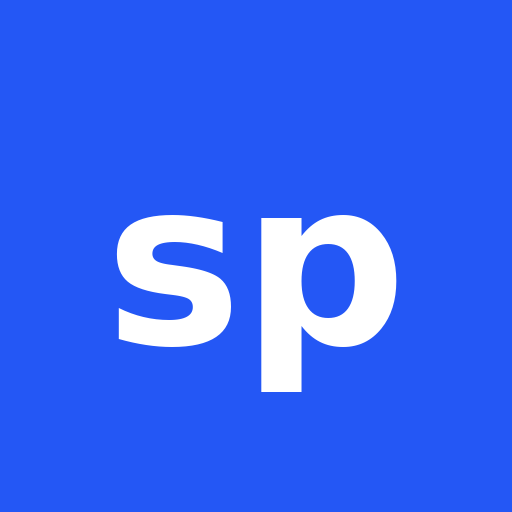
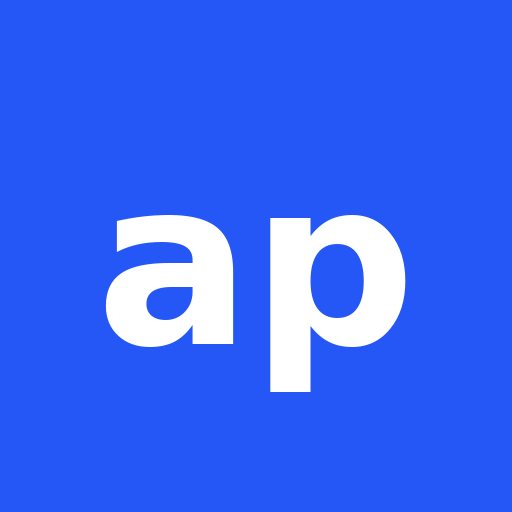
Rename the app to Autopilot
Claude-Session: https://claude.ai/code/session_01MxCvqDpXqc877knBpwTrYt

diff --git a/app.js b/app.js
@@ -1,5 +1,5 @@
 'use strict';
-/* Sin Pensar: FSI-style drills in any language, with spaced review, recorded audio and speech checking. */
+/* Autopilot: FSI-style drills in any language, with spaced review, recorded audio and speech checking. */
 
 const $ = (s) => document.querySelector(s);
 const esc = (s) => String(s).replace(/[&<>"]/g, (c) => ({ '&': '&amp;', '<': '&lt;', '>': '&gt;', '"': '&quot;' }[c]));
@@ -484,8 +484,8 @@ function vPick() {
   return h;
 }
 function vGuide() {
-  return `<section class="sheet guide"><p class="lbl">Guide</p><h1>How to use Sin Pensar</h1>
-<p>Sin Pensar teaches the way US diplomats are trained: you memorise short real-life dialogues, then repeat drills until the answer comes out <i>sin pensar</i>, without thinking. About 10 to 15 minutes a day works best.</p>
+  return `<section class="sheet guide"><p class="lbl">Guide</p><h1>How to use Autopilot</h1>
+<p>Autopilot teaches the way US diplomats are trained: you memorise short real-life dialogues, then repeat drills until the answer comes out on autopilot, without thinking. About 10 to 15 minutes a day works best.</p>
 <h2>Your daily session</h2>
 <ol>
 <li><b>Start session</b> on the Today screen. It mixes reviews that are due with a few new items.</li>
@@ -555,7 +555,7 @@ async function openCourse(id) {
     tab = 'today';
     pickVoice();
     $('#audio-note').textContent = Object.keys(AUDIO.files).length ? '' : `Recorded ${C.name} audio is not ready yet, so the device voice is used for now.`;
-    document.title = `Sin Pensar · ${C.name}`;
+    document.title = `Autopilot · ${C.name}`;
   } catch {
     $('#view').innerHTML = '<section class="sheet"><p class="err">That course could not be loaded. Check your connection and try again.</p></section>';
     return;

diff --git a/index.html b/index.html
@@ -3,13 +3,13 @@
 <head>
 <meta charset="utf-8">
 <meta name="viewport" content="width=device-width,initial-scale=1,viewport-fit=cover">
-<title>Sin Pensar</title>
+<title>Autopilot</title>
 <meta name="description" content="FSI-style language drills: memorise a dialogue, drill the patterns, review on a spaced schedule.">
 <meta name="theme-color" content="#F5F6F8" media="(prefers-color-scheme: light)">
 <meta name="theme-color" content="#0B0D12" media="(prefers-color-scheme: dark)">
 <meta name="apple-mobile-web-app-capable" content="yes">
 <meta name="mobile-web-app-capable" content="yes">
-<meta name="apple-mobile-web-app-title" content="Sin Pensar">
+<meta name="apple-mobile-web-app-title" content="Autopilot">
 <meta name="apple-mobile-web-app-status-bar-style" content="default">
 <link rel="manifest" href="/manifest.webmanifest">
 <link rel="apple-touch-icon" href="/icons/apple-touch-icon.png">
@@ -166,7 +166,7 @@ a.btn{text-decoration:none}
 <body>
 <div class="wrap">
   <header class="top">
-    <div class="brand"><span class="logo" aria-hidden="true">sp</span><span class="name">Sin Pensar</span></div>
+    <div class="brand"><span class="logo" aria-hidden="true">ap</span><span class="name">Autopilot</span></div>
     <label class="langpick"><span class="sr">Language</span><select id="langsel" aria-label="Language"></select></label>
   </header>
   <nav id="nav" aria-label="Sections"></nav>

diff --git a/README.md b/README.md
@@ -1,6 +1,6 @@
-# Sin Pensar
+# Autopilot
 
-A language app built on the FSI drill method: memorise a short real-life dialogue, drill its patterns until the answer comes out *sin pensar* (without thinking), and review on a spaced schedule. It ships with Spanish (Spain) and Thai, and anyone can add a language with an AI-written course file.
+A language app built on the FSI drill method: memorise a short real-life dialogue, drill its patterns until the answer comes out on autopilot, without thinking, and review on a spaced schedule. It ships with Spanish (Spain) and Thai, and anyone can add a language with an AI-written course file.
 
 **Want your own copy?** Follow [SETUP.md](SETUP.md). No coding needed.
 

diff --git a/SETUP.md b/SETUP.md
@@ -1,4 +1,4 @@
-# Run your own Sin Pensar
+# Run your own Autopilot
 
 This guide sets up your own copy of the app, with your own languages and voices. No coding is needed. It takes about 30 minutes.
 
@@ -14,7 +14,7 @@ A full 8-unit course needs roughly 3,000 to 6,000 characters of audio, a small p
 
 ## 1. Copy the app
 
-1. Open the [Sin Pensar repository](https://github.com/patrickcapstick-web/spanish_tutor).
+1. Open the [Autopilot repository](https://github.com/patrickcapstick-web/spanish_tutor).
 2. Click **Use this template**, then **Create a new repository**.
 3. Give it a name, for example `my-language-app`, and click **Create repository**.
 
